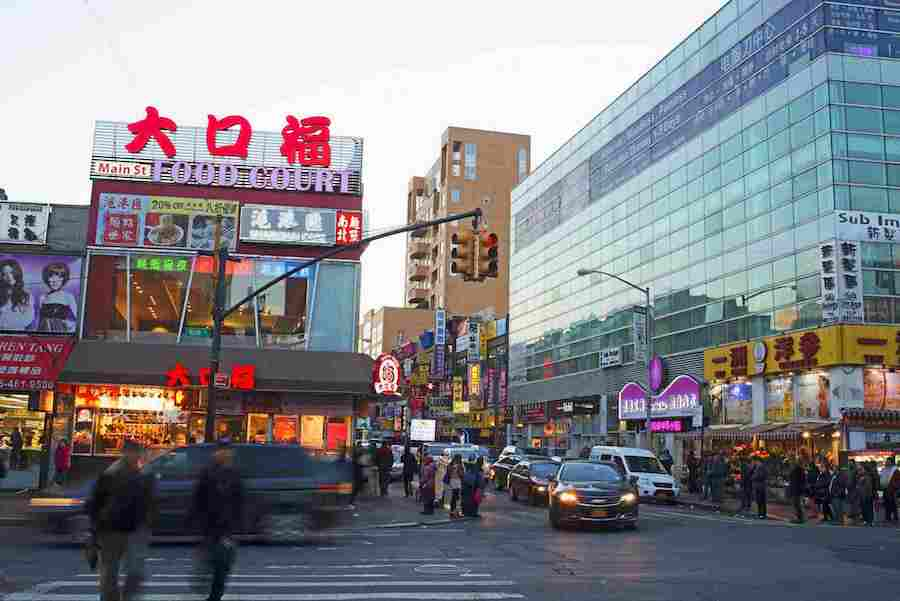
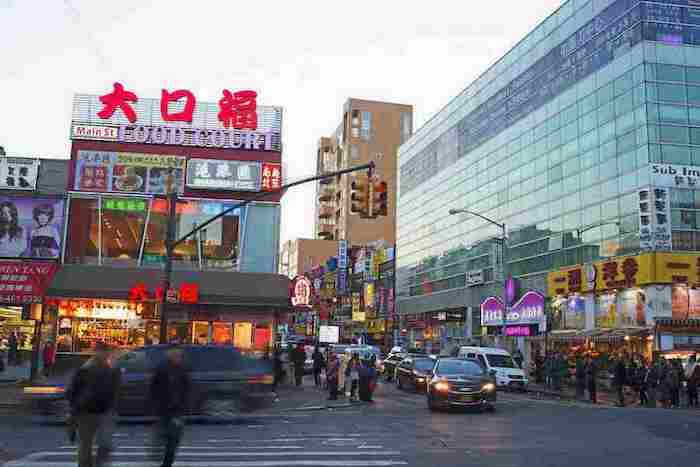
resize pics

diff --git a/client/components/Projects.js b/client/components/Projects.js
@@ -26,7 +26,11 @@ export default class Projects extends Component {
         {stories.map(story => (
           <div className="story story2 opacity" key={story.id}>
             <hr />
-            <a href={story.projectUrl} target="_blank">
+            <a
+              href={story.projectUrl}
+              target="_blank"
+              rel="noopener noreferrer"
+            >
               <div className="centered solid">
                 <img src={story.imageUrl} width="100" />
               </div>
@@ -34,7 +38,11 @@ export default class Projects extends Component {
             </a>
             <span id="story_content">{story.content}</span>
             <div id="info_div">
-              <a href={story.gitHubUrl} target="_blank">
+              <a
+                href={story.gitHubUrl}
+                target="_blank"
+                rel="noopener noreferrer"
+              >
                 {' '}
                 <span id="source">View Source Code</span>
                 <img
